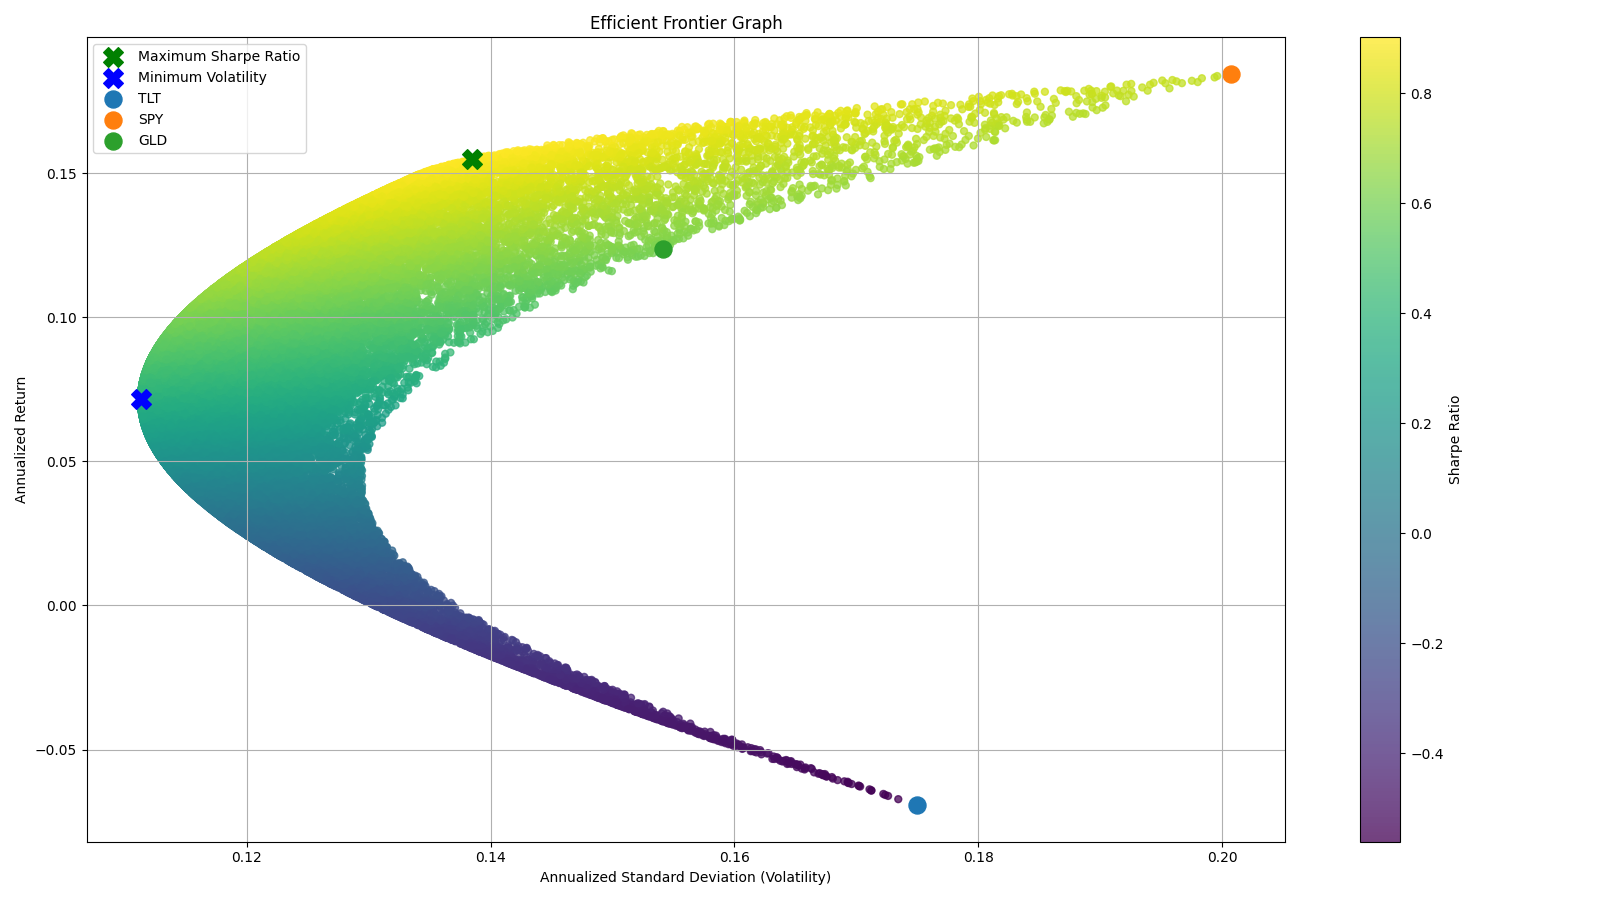
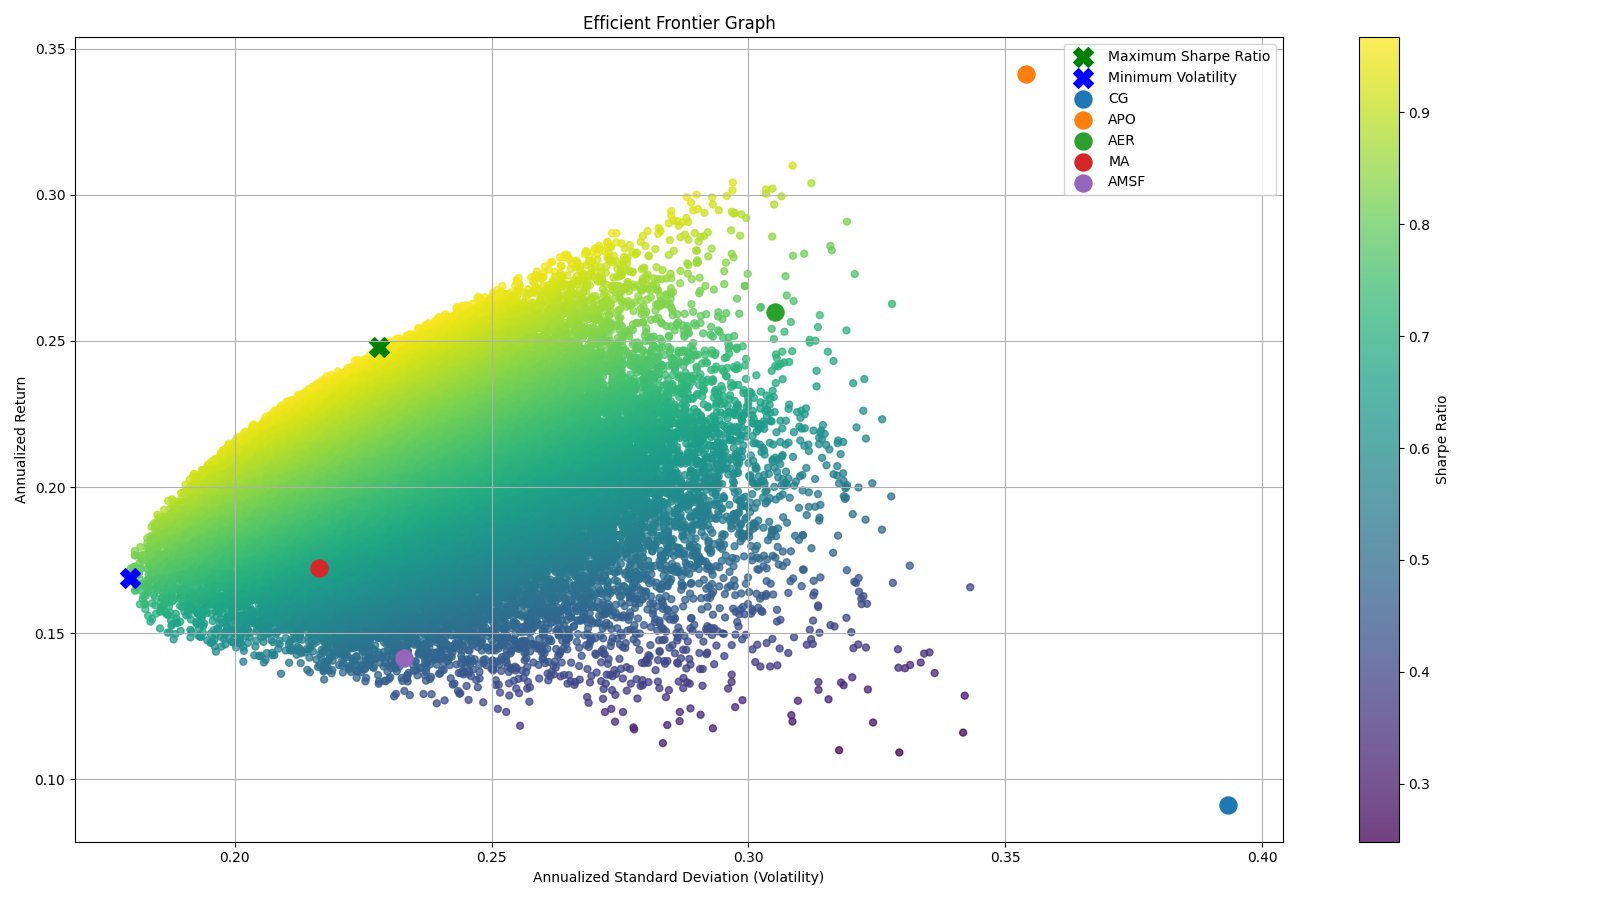
refactored with requested changes (#15)

diff --git a/FrontierAnalysis.py b/FrontierAnalysis.py
@@ -1,14 +1,24 @@
+import os, sys
 from datetime import datetime, timedelta
 import matplotlib.pyplot as plt
 import numpy as np
 import pandas as pd
 import yfinance as yf
 
+'''
+Calculates the efficient frontier (weightings) for a given portfolio of assets
+1. Gets stock price data from yfinance
+2. Calculates annualized returns, annualized standard deviation (volatility) and covariance matrix
+3. Performs montecarlo simulation of different portfolio weightings and calculates sharpe ratio for each
+4. Plots each portfolio on efficient frontier graph and returns the maximum sharpe and minimum volatility portfolio weightings
+'''
 class FrontierAnalysis:
-    def __init__(self, tickers, start_date, end_date):
+    def __init__(self, tickers, start_date, end_date, risk_free_rate, num_simulations):
         self.tickers = tickers
         self.start_date = start_date
         self.end_date = end_date
+        self.risk_free_rate = risk_free_rate
+        self.num_simulations = num_simulations
         self.data = None
         self.returns = None
         self.annual_returns = {}
@@ -26,7 +36,7 @@ class FrontierAnalysis:
     def normalized_return_graph(self):
         df = self.data.divide(self.data.iloc[0] / 100)
         plt.figure(figsize=(15, 6))
-        for ticker in tickers:
+        for ticker in self.tickers:
             plt.plot(df[ticker], label=ticker)
         plt.legend(loc='upper left', fontsize=12)
         plt.ylabel('Price')
@@ -43,8 +53,8 @@ class FrontierAnalysis:
             self.annual_volatility[ticker] = returns[ticker].std() * np.sqrt(252)
 
         # Create Series objects for optimization
-        self.mean_returns_series = pd.Series([self.annual_returns[t] for t in tickers], index=tickers)
-        self.cov_matrix = self.returns[tickers].cov() * 252
+        self.mean_returns_series = pd.Series([self.annual_returns[t] for t in self.tickers], index=self.tickers)
+        self.cov_matrix = self.returns[self.tickers].cov() * 252
 
     def portfolio_performance(self, weights, mean_returns, cov_matrix):
         weights_array = np.array(weights)
@@ -53,21 +63,21 @@ class FrontierAnalysis:
         portfolio_volatility = np.sqrt(np.dot(weights_array.T, np.dot(cov_matrix, weights_array)))
         return portfolio_return, portfolio_volatility
 
-    def monte_carlo_simulation(self, num_simulations=50000, risk_free_rate=0.03):
+    def monte_carlo_simulation(self):
 
         results = []
 
-        for i in range(num_simulations):
-            random_weights = np.random.random(len(tickers))
+        for i in range(self.num_simulations):
+            random_weights = np.random.random(len(self.tickers))
             random_weights /= np.sum(random_weights)
             simulated_return, simulated_vol = self.portfolio_performance(random_weights, self.mean_returns_series, self.cov_matrix)
-            sharpe = (simulated_return - risk_free_rate) / simulated_vol
+            sharpe = (simulated_return - self.risk_free_rate) / simulated_vol
             results.append({
                 'Volatility': simulated_vol,
                 'Return': simulated_return,
                 'Sharpe': sharpe,
-                'Weights': {tickers[i]: random_weights[i]
-                            for i in range(len(tickers))}
+                'Weights': {self.tickers[i]: random_weights[i]
+                            for i in range(len(self.tickers))}
             })
         self.results_frame = pd.DataFrame(results)
         self.max_sharpe_portfolio = self.results_frame.iloc[self.results_frame['Sharpe'].idxmax()]
@@ -76,11 +86,11 @@ class FrontierAnalysis:
     def printing_results(self):
 
         print("Annualized Returns:")
-        for ticker in tickers:
+        for ticker in self.tickers:
             print(f"{ticker}: {self.annual_returns[ticker] * 100:.2f}%")
 
         print("Annualized Standard Deviation:")
-        for ticker in tickers:
+        for ticker in self.tickers:
             print(f"{ticker}: {self.annual_volatility[ticker] * 100:.2f}%")
 
         min_vol_weights = self.min_vol_portfolio['Weights']
@@ -112,7 +122,7 @@ class FrontierAnalysis:
         plt.scatter(self.min_vol_portfolio['Volatility'], self.min_vol_portfolio['Return'], c='blue', marker='X', s=200,
                     label='Minimum Volatility')
 
-        for ticker in tickers:
+        for ticker in self.tickers:
             plt.scatter(self.annual_volatility[ticker], self.annual_returns[ticker], s=150, label=ticker)
 
         plt.title('Efficient Frontier Graph')
@@ -123,17 +133,36 @@ class FrontierAnalysis:
         plt.tight_layout()
         plt.savefig('data/fund/output/efficient_frontier.png')
 
-if __name__ == "__main__":
-    tickers = ['TLT', 'SPY', 'GLD']
-    end_date = datetime.now()
-    start_date = end_date - timedelta(days= 365 * 5)
+def main():
+    # Constants
+    risk_free_rate = 0.0275
+    num_simulations = 50_000
+    lookback_period_days = 365 * 3
 
-    analyzer = FrontierAnalysis(tickers, start_date, end_date)
+    # Manually inputted portfolio funds/sectors
+    TMT_fund = ['AAPL', 'EA', 'AMAT', 'VEEV', 'TMUS']
+    industrial_fund = ['GSL', 'TEX', 'CEG', 'WSC']
+    resource_fund = ['MP', 'DOLE']
+    financial_fund = ['CG', 'APO', 'AER', 'MA', 'AMSF']
+    macro_fund = ['AGG', 'SPY', 'SPSB']
+    cnh_fund = ['ISRG', 'BLBD']
+
+    end_date = datetime.now() - timedelta(days=1)
+    start_date = end_date - timedelta(days=lookback_period_days)
+    analyzer = FrontierAnalysis(financial_fund, start_date, end_date, risk_free_rate, num_simulations)
     analyzer.get_data()
     #analyzer.normalized_return_graph()
     analyzer.calculate_metrics()
     analyzer.monte_carlo_simulation()
     analyzer.printing_results()
     analyzer.efficient_frontier_graph()
+
+if __name__ == '__main__':
+    if len(sys.argv) < 2:
+        sys.exit("Usage: python3 PerformanceTracker.py <folder_prefix>")
+    folder_prefix = sys.argv[1]
+    output_folder = os.path.join("data", folder_prefix, "output")
+    os.makedirs(output_folder, exist_ok=True)
+    main()
 
 
